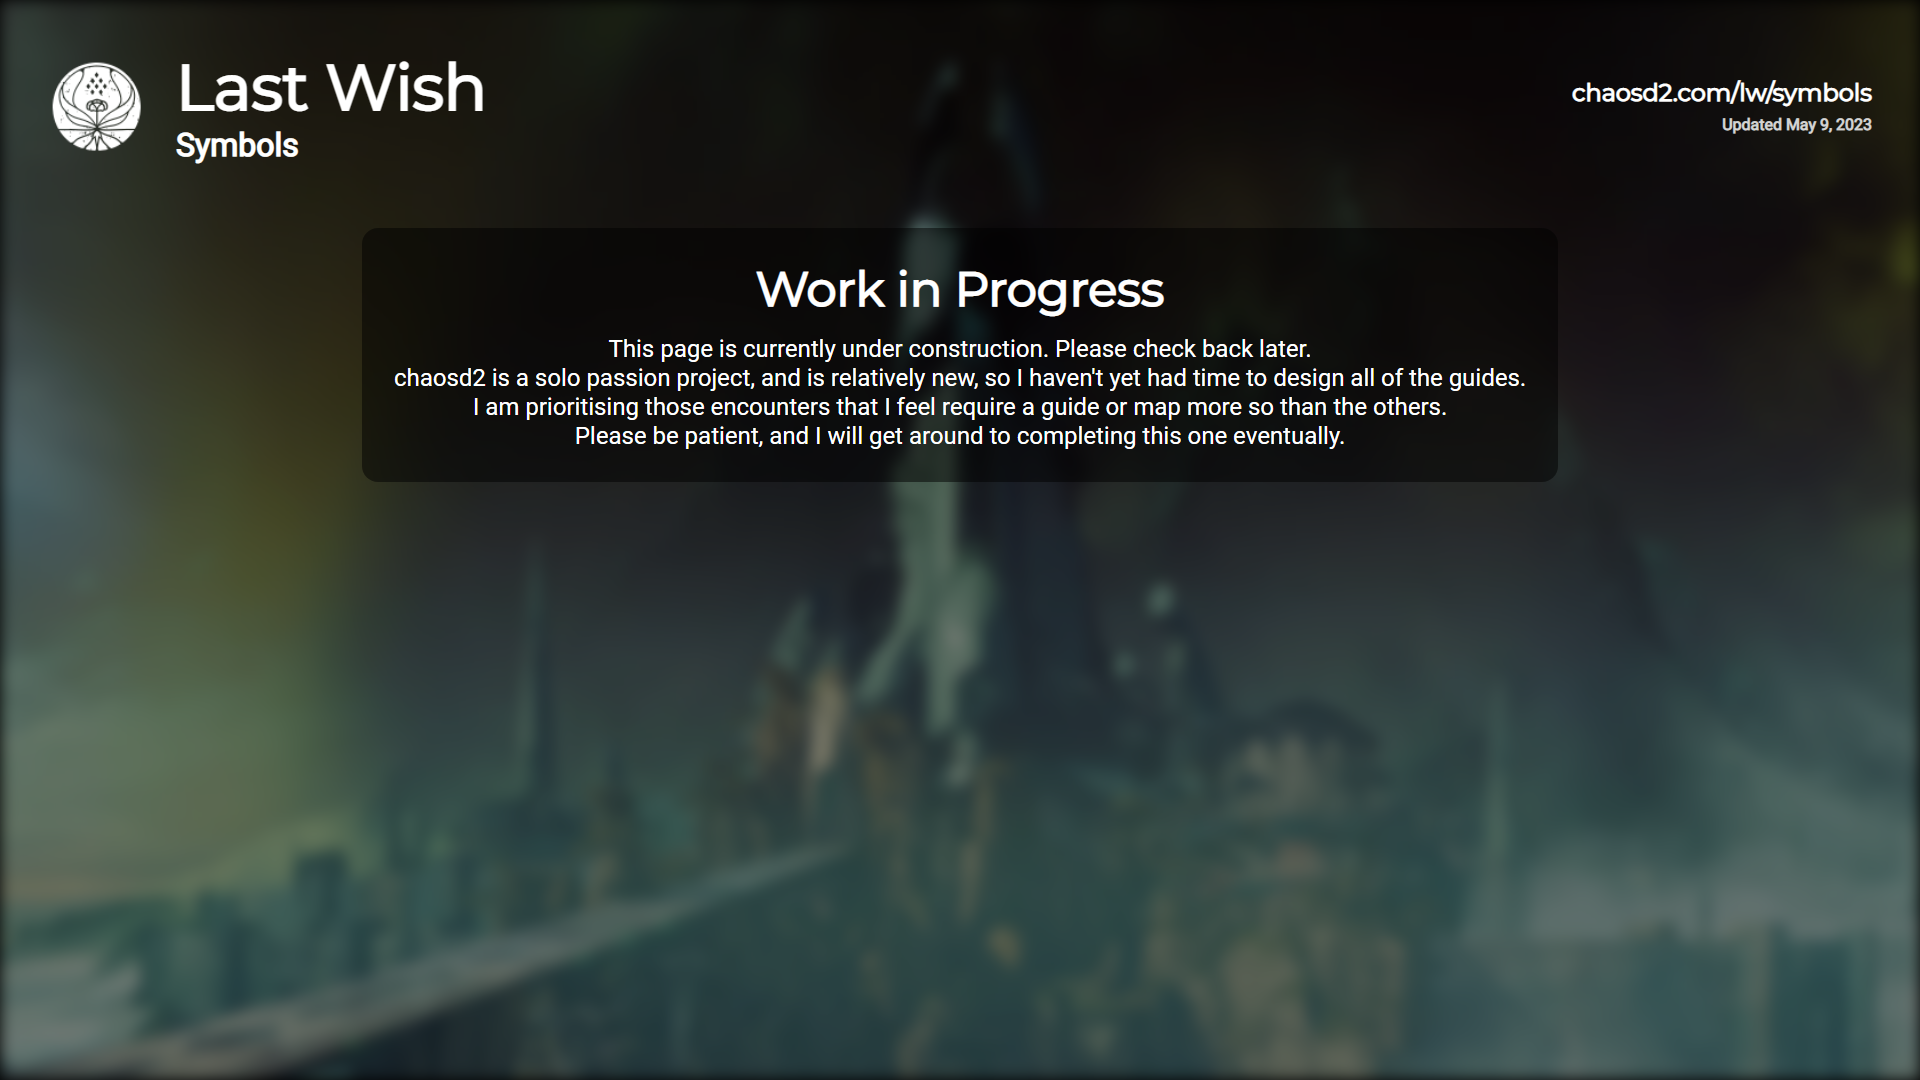
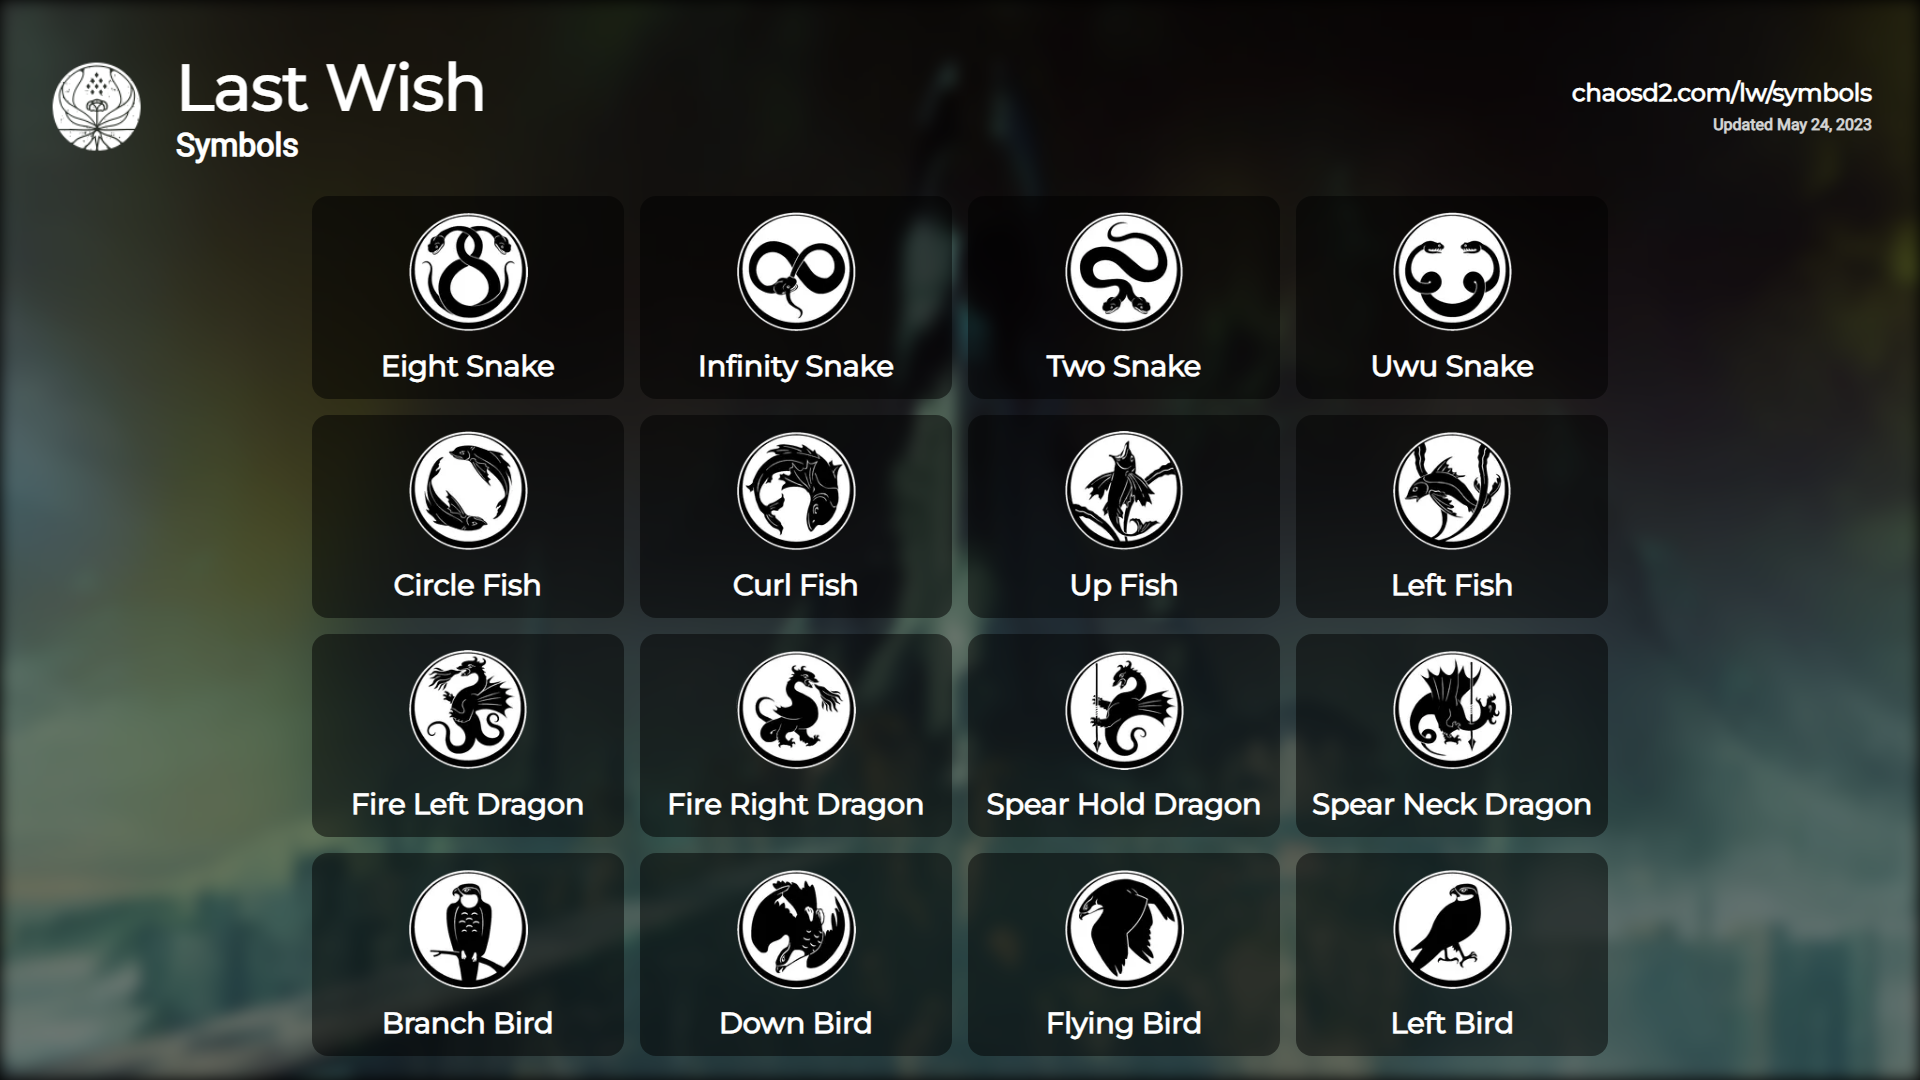
Added /lw/symbols

diff --git a/src/app/image_sources/raids/last_wish/symbols/page.js b/src/app/image_sources/raids/last_wish/symbols/page.js
@@ -3,9 +3,27 @@ import ImageHeader from "@image_components/ImageHeader";
 import Image from "next/image";
 import Background from "@backgrounds/last_wish.jpg";
 import {BungieIcons} from "@components/BungieIcons";
-import ImageUnderConstruction from "@image_components/ImageUnderConstruction";
+import {LWSymbols} from "@image_components/LWSymbols";
+import custom from "./custom.module.css"
 
-/* TODO: This is a placeholder page. */
+/*
+    branch_bird: Branch_Bird,
+    circle_fish: Circle_Fish,
+    curl_fish: Curl_Fish,
+    down_bird: Down_Bird,
+    eight_snake: Eight_Snake,
+    fire_left_dragon: Fire_Left_Dragon,
+    fire_right_dragon: Fire_Right_Dragon,
+    flying_bird: Flying_Bird,
+    infinity_snake: Infinity_Snake,
+    left_bird: Left_Bird,
+    left_fish: Left_Fish,
+    spear_hold_dragon: Spear_Hold_Dragon,
+    spear_neck_dragon: Spear_Neck_Dragon,
+    two_snake: Two_Snake,
+    up_fish: Up_Fish,
+    uwu_snake: Uwu_Snake,
+ */
 
 export const metadata = {
     other: {
@@ -14,16 +32,42 @@ export const metadata = {
     }
 }
 
-export default function LWSymbols() {
+export default function LWSymbolsPage() {
     return (
         <body className={styles.main}>
             <Image src={Background} alt={""} className={styles.background}/>
             <div className={styles.wrapper}>
                 <ImageHeader title={"Last Wish"} subtitle={"Symbols"} icon={BungieIcons.raids.last_wish} href={"chaosd2.com/lw/symbols"}/>
-                <div className={styles.content}>
-                    <ImageUnderConstruction/>
+                <div className={custom.content}>
+                    <div className={custom.table}>
+                        <Symbol image={LWSymbols.eight_snake} name={"Eight Snake"}/>
+                        <Symbol image={LWSymbols.infinity_snake} name={"Infinity Snake"}/>
+                        <Symbol image={LWSymbols.two_snake} name={"Two Snake"}/>
+                        <Symbol image={LWSymbols.uwu_snake} name={"Uwu Snake"}/>
+                        <Symbol image={LWSymbols.circle_fish} name={"Circle Fish"}/>
+                        <Symbol image={LWSymbols.curl_fish} name={"Curl Fish"}/>
+                        <Symbol image={LWSymbols.up_fish} name={"Up Fish"}/>
+                        <Symbol image={LWSymbols.left_fish} name={"Left Fish"}/>
+                        <Symbol image={LWSymbols.fire_left_dragon} name={"Fire Left Dragon"}/>
+                        <Symbol image={LWSymbols.fire_right_dragon} name={"Fire Right Dragon"}/>
+                        <Symbol image={LWSymbols.spear_hold_dragon} name={"Spear Hold Dragon"}/>
+                        <Symbol image={LWSymbols.spear_neck_dragon} name={"Spear Neck Dragon"}/>
+                        <Symbol image={LWSymbols.branch_bird} name={"Branch Bird"}/>
+                        <Symbol image={LWSymbols.down_bird} name={"Down Bird"}/>
+                        <Symbol image={LWSymbols.flying_bird} name={"Flying Bird"}/>
+                        <Symbol image={LWSymbols.left_bird} name={"Left Bird"}/>
+                    </div>
                 </div>
             </div>
         </body>
+    );
+}
+
+function Symbol({ image, name }){
+    return (
+        <div className={custom.symbol}>
+            <Image src={image} alt={name} width={120} height={120}/>
+            <div className={custom.symbol_name}>{name}</div>
+        </div>
     );
 }

diff --git a/src/image_components/LWSymbols.js b/src/image_components/LWSymbols.js
@@ -1,0 +1,35 @@
+import Branch_Bird from "@images/icons/last_wish/branch_bird.png";
+import Circle_Fish from "@images/icons/last_wish/circle_fish.png";
+import Curl_Fish from "@images/icons/last_wish/curl_fish.png";
+import Down_Bird from "@images/icons/last_wish/down_bird.png";
+import Eight_Snake from "@images/icons/last_wish/eight_snake.png";
+import Fire_Left_Dragon from "@images/icons/last_wish/fire_left_dragon.png";
+import Fire_Right_Dragon from "@images/icons/last_wish/fire_right_dragon.png";
+import Flying_Bird from "@images/icons/last_wish/flying_bird.png";
+import Infinity_Snake from "@images/icons/last_wish/infinity_snake.png";
+import Left_Bird from "@images/icons/last_wish/left_bird.png";
+import Left_Fish from "@images/icons/last_wish/left_fish.png";
+import Spear_Hold_Dragon from "@images/icons/last_wish/spear_hold_dragon.png";
+import Spear_Neck_Dragon from "@images/icons/last_wish/spear_neck_dragon.png";
+import Two_Snake from "@images/icons/last_wish/two_snake.png";
+import Up_Fish from "@images/icons/last_wish/up_fish.png";
+import Uwu_Snake from "@images/icons/last_wish/uwu_snake.png";
+
+export const LWSymbols = {
+    branch_bird: Branch_Bird,
+    circle_fish: Circle_Fish,
+    curl_fish: Curl_Fish,
+    down_bird: Down_Bird,
+    eight_snake: Eight_Snake,
+    fire_left_dragon: Fire_Left_Dragon,
+    fire_right_dragon: Fire_Right_Dragon,
+    flying_bird: Flying_Bird,
+    infinity_snake: Infinity_Snake,
+    left_bird: Left_Bird,
+    left_fish: Left_Fish,
+    spear_hold_dragon: Spear_Hold_Dragon,
+    spear_neck_dragon: Spear_Neck_Dragon,
+    two_snake: Two_Snake,
+    up_fish: Up_Fish,
+    uwu_snake: Uwu_Snake,
+}

diff --git a/src/app/image_sources/raids/last_wish/symbols/custom.module.css b/src/app/image_sources/raids/last_wish/symbols/custom.module.css
@@ -1,0 +1,31 @@
+.content {
+    display: flex;
+    width: 100%;
+    height: 100%;
+    justify-content: center;
+    align-items: center;
+}
+
+.table {
+    display: grid;
+    grid-template-columns: repeat(4, 1fr);
+    gap: 1rem;
+}
+
+.symbol {
+    background: rgba(0, 0, 0, 0.5);
+    border-radius: 1rem;
+    padding: 1rem;
+    display: flex;
+    flex-direction: column;
+    gap: 1rem;
+    align-items: center;
+    justify-content: center;
+}
+
+.symbol_name {
+    font-size: 1.8rem;
+    font-weight: bold;
+    text-align: center;
+    font-family: Montserrat, sans-serif;
+}
